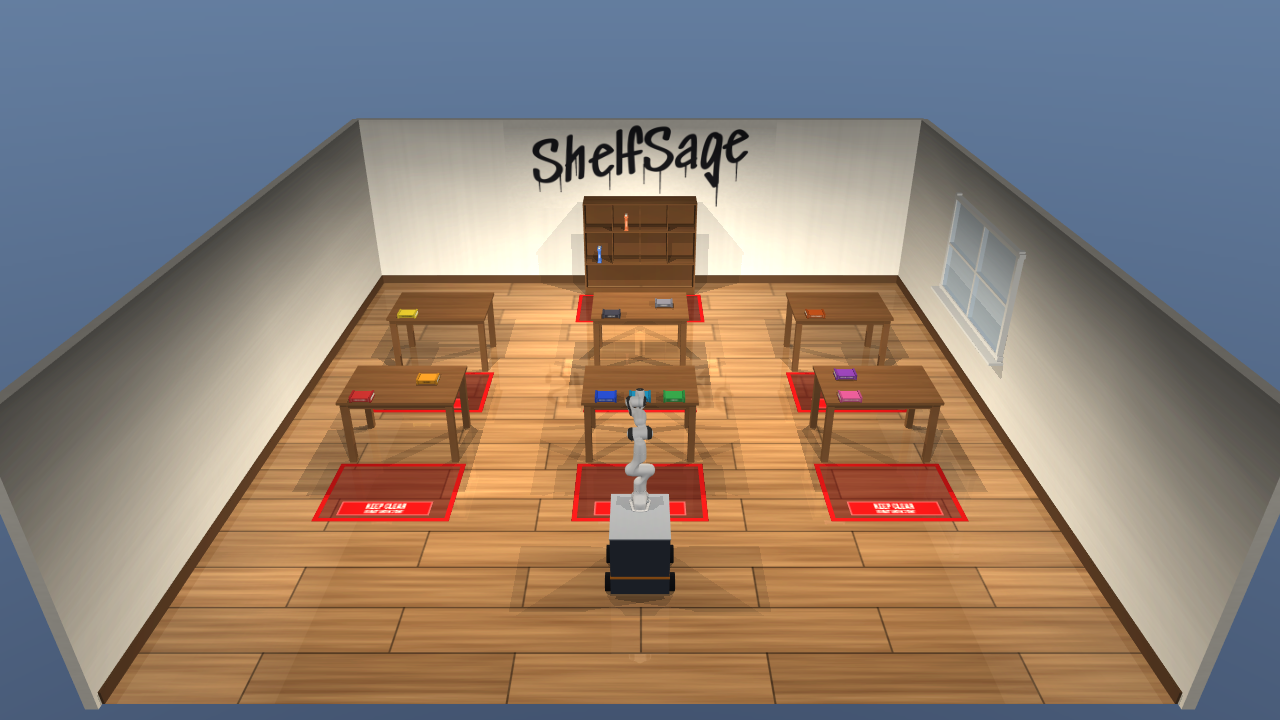
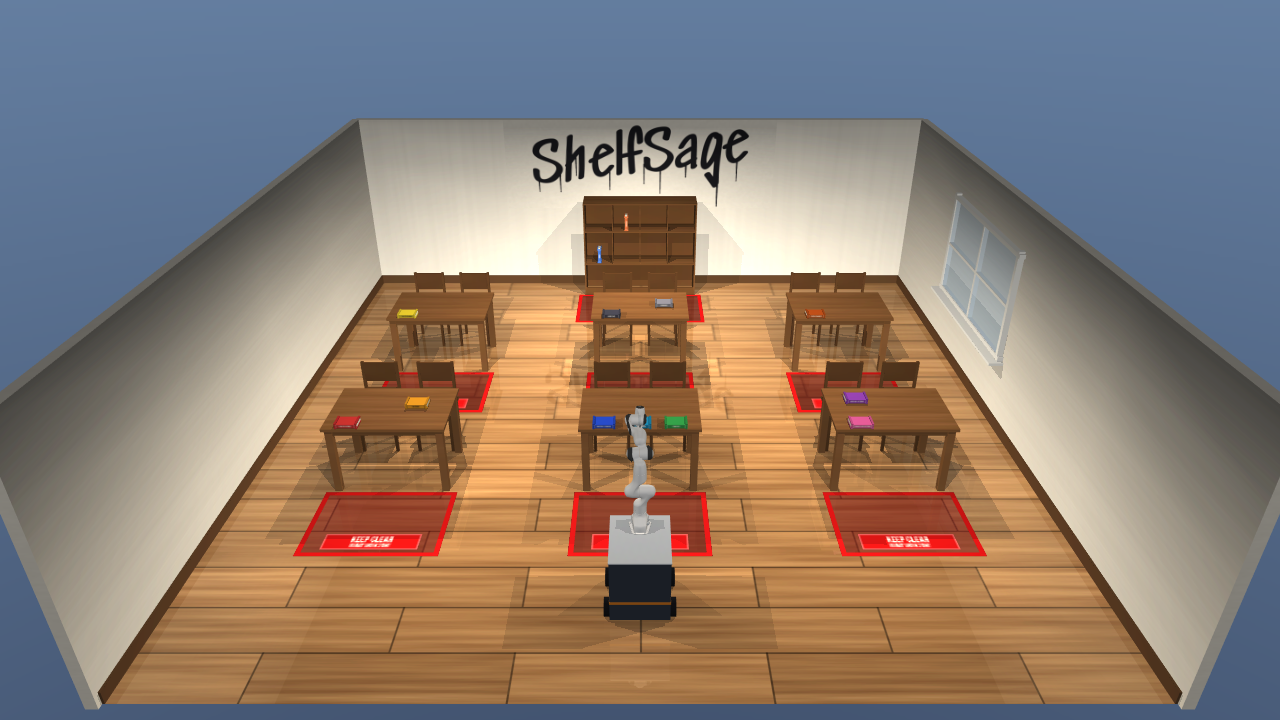
Chairs on the readers' side of every table
- 12 static wooden chairs, 2 per table on the north side, pushed in
  8 cm; the robot side (south) with its KEEP CLEAR zone stays free.
- Front table row moved from y -1.5 to -2.0 so its chairs stay out of
  the back-row robot zones; robot start moved to (0, -3.9); the
  odometry loop in the test moved south accordingly.
- Phase 3 test passes (LiDAR still 100 % on the map, chairs included);
  demo dry run has no contacts.

diff --git a/scene/generate_scene.py b/scene/generate_scene.py
@@ -150,7 +150,33 @@ def build_tables(layout):
         edge_y = y - hy + BOOK_W / 2 + SPINE_INSET
         meta[name] = {"pos": [x, y], "top_z": TABLE_TOP_Z, "half_size": [hx, hy],
                       "edge_spots": [[x + dx, edge_y, flat_z] for dx in EDGE_X_OFFSETS]}
+        # chairs on the reader side (north), pushed in a little; the robot side (south) stays free
+        ch = layout.get("chairs")
+        if ch:
+            cy = y + hy + CHAIR_SEAT / 2 - ch["tuck"]
+            chairs = [[x + dx, cy] for dx in ch["x_offsets"]]
+            meta[name]["chairs"] = chairs
+            out += [build_chair(f"chair_{name}{i + 1}", cx_, cy_) for i, (cx_, cy_) in enumerate(chairs)]
     return out, meta
+
+
+CHAIR_SEAT, CHAIR_SEAT_Z, CHAIR_BACK_TOP = 0.42, 0.46, 0.90
+
+
+def build_chair(name, x, y):
+    """Static wooden chair facing -y (towards its table); backrest on the +y side."""
+    s, h, t, leg = CHAIR_SEAT / 2, CHAIR_SEAT_Z, 0.03, 0.015
+    m = "shelf_mat"
+    lines = [f'<body name="{name}" pos="{x:.4f} {y:.4f} 0">',
+             "  " + box(None, (0, 0, h - t / 2), (s, s, t / 2), material=m)]
+    for sx in (-1, 1):
+        for sy in (-1, 1):
+            top = CHAIR_BACK_TOP if sy > 0 else h - t       # rear legs carry the backrest
+            lines.append("  " + box(None, (sx * (s - 0.03), sy * (s - 0.03), top / 2), (leg, leg, top / 2), material=m))
+    lines.append("  " + box(None, (0, s - 0.03, CHAIR_BACK_TOP - 0.12), (s - 0.03, 0.012, 0.11), material=m))
+    lines.append("  " + box(None, (0, s - 0.03, h + 0.10), (s - 0.03, 0.010, 0.025), material=m))
+    lines.append("</body>")
+    return "\n".join(lines)
 
 
 # ---------------------------------------------------------------------------- shelf

diff --git a/sim/test_robot.py b/sim/test_robot.py
@@ -172,8 +172,8 @@ def main():
     # ---------------------------------------------------------------- 3. odometry drift
     robot.close()
     robot = Robot(model, data, seed=0, pose_source="odom")
-    loop = [(2.5, -3.2, math.pi / 2), (2.5, -2.6, math.pi), (-2.5, -2.6, math.pi),
-            (-2.5, -3.2, 0.0), (0.0, -3.2, math.pi / 2)]
+    loop = [(2.5, -3.6, math.pi / 2), (2.5, -3.0, math.pi), (-2.5, -3.0, math.pi),
+            (-2.5, -3.6, 0.0), (0.0, -3.6, math.pi / 2)]
     robot.trace, length = [], 0.0
     prev = np.array(robot.true_pose()[:2])
     for wp in loop:

diff --git a/README.md b/README.md
@@ -161,12 +161,13 @@ Everything is defined in [`scene/layout.json`](scene/layout.json) and generated 
 - Room 8 m x 8 m (x -4..4, y -5..3, `room.center` = (0, -1)), wall height 2.5 m; the south side was extended 2 m to leave free floor for the robot. South wall collides but is hidden (geom group 4) so the cameras can see in
 - "ShelfSage" graffiti tag on the north wall above the shelf (`sign` in the layout; texture from `make_textures.py` using the Sedgwick Ave font, SIL OFL, in `assets/fonts/`)
 - Window on the east wall at x = 3.97 (used for commands like "nearest to the window")
-- 6 tables (A to F), top at z = 0.75 m; each has 3 **edge spots** on the robot side (south), where the robot puts books it brings from the shelf
+- 6 tables (A to F) in two rows (front row A-C at y = -2.0, back row D-F at y = 0.5), top at z = 0.75 m; each has 3 **edge spots** on the robot side (south), where the robot puts books it brings from the shelf
 - 1 bookshelf at (0, 2.7): 2 rows (A, B) x 4 columns, compartments A1-A4 (surface z = 0.5 m) and B1-B4 (z = 1.0 m), top at 1.4 m (row B moved up from 0.9 m to stay out of the arm's dead band, see Phase 3)
 - 13 books (id, title, colour, location): 11 on tables, 2 standing in the shelf (Physics in A1, Statistics in B2)
 - **Book design ("customised library books")**: every book is 22 x 15 x 4 cm, with 1 cm high, 2 cm wide bumper strips (ribs) across both covers at head and tail. Lying flat, a book rests on its ribs, leaving a 1 cm gap underneath for the lower fingertip (the Panda fingertip is 7.6 mm thick); standing in the shelf, neighbours touch only at the ribs, leaving gaps for the fingers. The title is printed on the spine (texture, Bebas Neue font, SIL OFL)
 - On a table a book lies flat with its **spine towards the robot side**, either at an edge spot (default) or anywhere on the table (`"pos": [dx, dy]` in the layout, e.g. Calculus, Control Systems, Databases). In the shelf it stands with the spine facing the room, 2 cm behind the shelf front
-- Robot start pose (0, -3.6, yaw 90 deg = facing the tables), on open floor outside every zone; the robot itself is described in Phase 3 below
+- 12 static wooden chairs, 2 per table on the readers' side (north), pushed in 8 cm; the robot side (south) stays free. The front row was moved 0.5 m south so its chairs stay out of the back-row robot zones. Chair legs show up in the LiDAR map like everything static
+- Robot start pose (0, -3.9, yaw 90 deg = facing the tables), on open floor outside every zone; the robot itself is described in Phase 3 below
 - **Fixed robot parking poses and floor zones**: the robot always picks / places from fixed poses, 0.30 m from the furniture: one per table edge spot (`tables.<T>.parking` in `library_meta.json`) and one per shelf column (`shelf.parking`). Around them the floor is marked with red tape, a light red fill and a **KEEP CLEAR - ROBOT WORK ZONE** plate (`robot_zones` in the layout and the meta). The markings are visual only (no collisions, not in the LiDAR map); the zone rectangles in the meta are meant for later use, e.g. injecting a "chair left in the robot zone" failure in Phase 9
 - The whole scene uses radians (`<compiler angle="radian">`), like the Panda
 - Books are free bodies (`freejoint`): collision = body box (geom group 3, hidden) + 4 rib boxes; visual = covers, spine, pages, ribs, spine label. Tables and shelf are fixed
